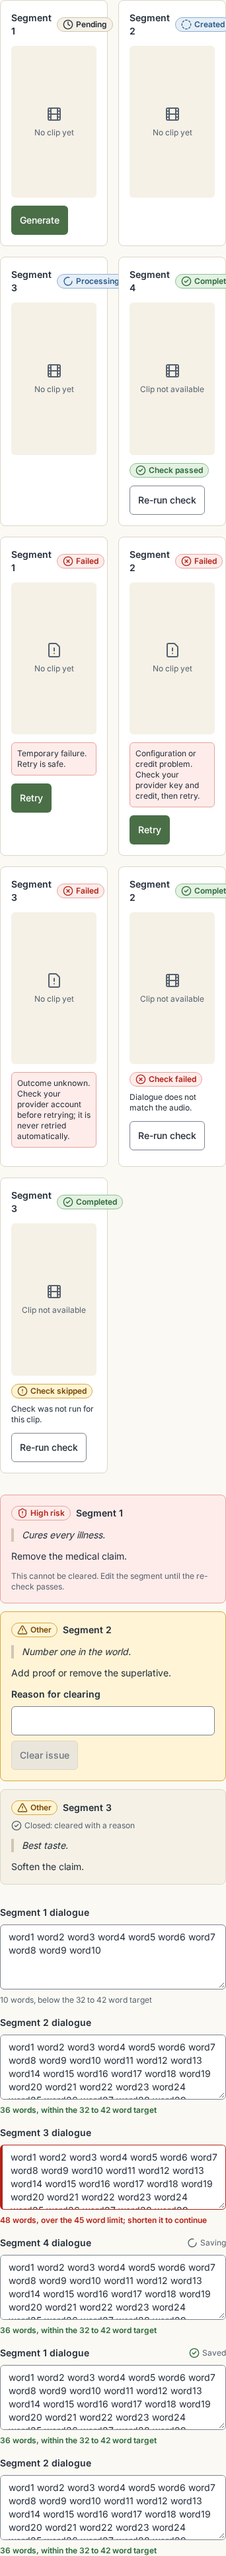
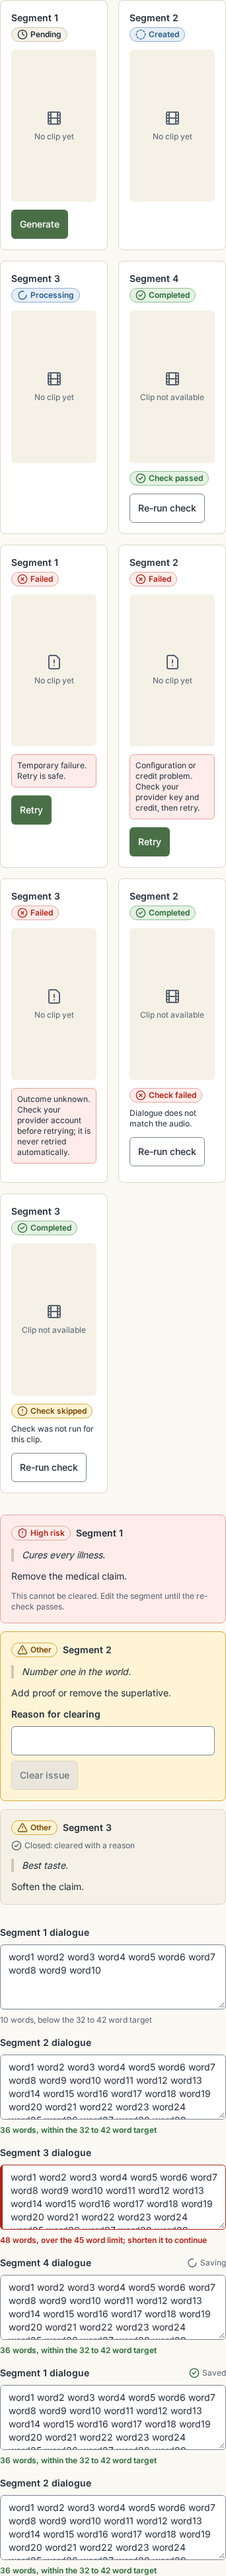
TASK-076: fix job card header clipping at 390 px, overflow assertion, save-blocking docstring (FR-1..3)

diff --git a/apps/web/e2e/dom-a.spec.ts b/apps/web/e2e/dom-a.spec.ts
@@ -67,6 +67,17 @@ test.describe('@TASK-076 job card, claim issue, segment editor (CMP-022, 023, 02
       const section = page.locator('[data-testid=dom-a]');
       await expectNoAxeViolations(page, `${evidence}/axe/${info.project.name}-dom-a-${name}.json`);
       await page.evaluate(() => document.fonts.ready);
+      const clipped = await section.locator('[data-variant]').evaluateAll((els) =>
+        els
+          .filter((e) => e.scrollWidth > e.clientWidth || !e.closest('article, section')?.contains(e))
+          .filter((e) => {
+            const a = e.getBoundingClientRect();
+            const c = e.closest('article')?.getBoundingClientRect();
+            return c ? a.right > c.right + 0.5 || a.left < c.left - 0.5 : false;
+          })
+          .map((e) => e.textContent),
+      );
+      expect(clipped, 'badges must stay inside their card').toEqual([]);
       await expect(section).toHaveScreenshot(`dom-a-${name}.png`);
       mkdirSync(`${evidence}/screenshots`, { recursive: true });
       await section.screenshot({ path: `${evidence}/screenshots/dom-a-${name}.png` });

diff --git a/packages/ui/src/components/cmp-022/JobCard.tsx b/packages/ui/src/components/cmp-022/JobCard.tsx
@@ -99,8 +99,8 @@ export function JobCard({
         .filter(Boolean)
         .join(' ')}
     >
-      <header className="flex items-center justify-between gap-2">
-        <h3 className="text-ui font-semibold">Segment {segment}</h3>
+      <header className="flex min-w-0 flex-wrap items-center justify-between gap-x-2 gap-y-1">
+        <h3 className="whitespace-nowrap text-ui font-semibold">Segment {segment}</h3>
         <Badge variant={badge.variant} icon={badge.icon}>
           {STATE_LABEL[state]}
         </Badge>

diff --git a/packages/ui/src/components/cmp-024/SegmentEditor.tsx b/packages/ui/src/components/cmp-024/SegmentEditor.tsx
@@ -49,7 +49,8 @@ export interface SegmentEditorProps {
   className?: string;
 }
 
-/** CMP-024 segment editor: dialogue textarea with a word counter; the counter is announced politely after typing pauses. */
+/** CMP-024 segment editor: dialogue textarea with a word counter; the counter is announced politely after typing pauses.
+ * Over 45 words (`wordZone` is `blocked`) is only styled and announced here: the parent must block save. */
 export function SegmentEditor({
   segment,
   value,
